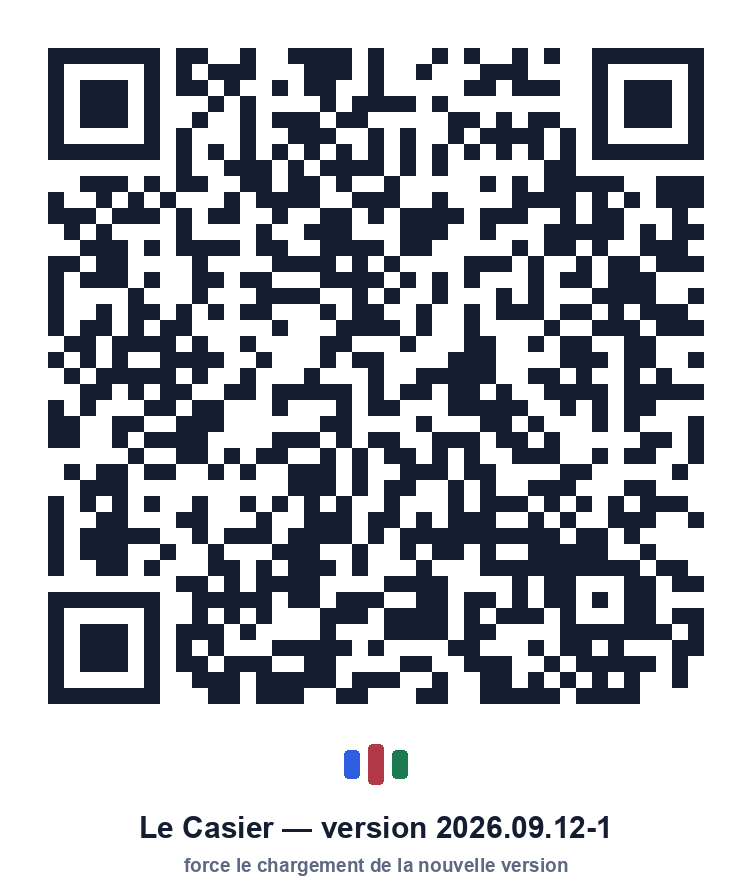
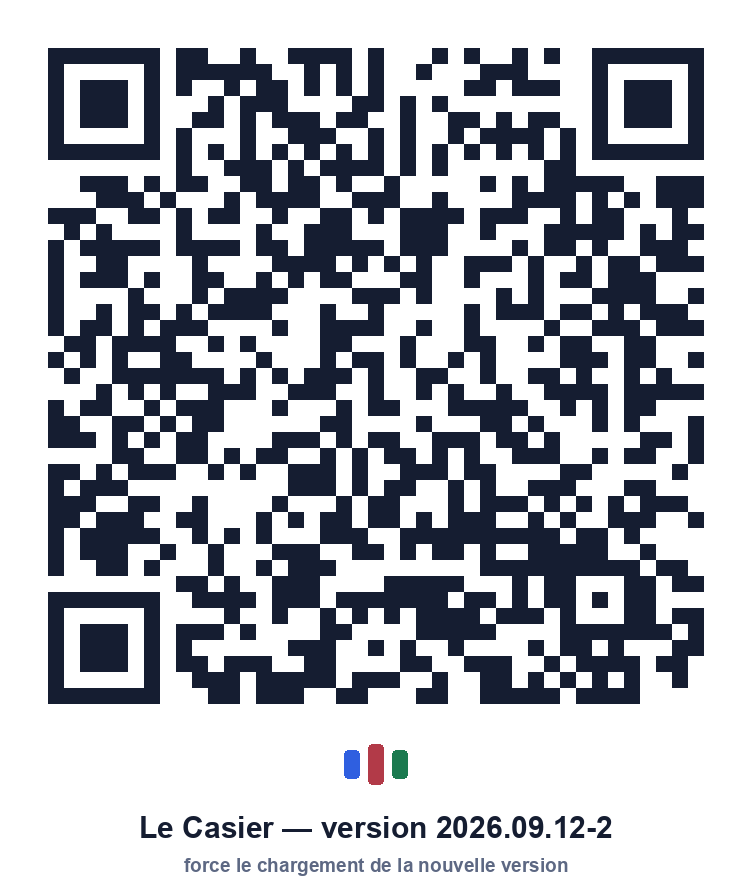
Faire dire la même chose aux deux compteurs d'annonces
En haut de la page « 3 annonces », en bas « 7 annonces » : deux nombres
portant le même mot, et rien pour dire lequel croire.

Ils ne comptaient pas la même chose. Celui du haut ne retenait que les
annonces encore disponibles, filtres du moment appliqués. Celui du bas
comptait toutes les lignes du catalogue, y compris les échanges déjà
conclus et les annonces masquées par un signalement — des objets que
personne ne peut plus prendre. Le second annonçait donc au lycée une
réserve qui n'existait pas.

Les deux comptent désormais les annonces disponibles. Quand un filtre
est posé, celui du haut le dit — « 2 annonces affichées » — au lieu de
laisser croire que le casier a rétréci.

Au passage, deux défauts du même voisinage. Taper dans le champ de
recherche redessinait la grille à partir des seules annonces : les
demandes « je cherche » disparaissaient à la première lettre et ne
revenaient qu'en changeant d'onglet. Et cette grille-là recomptait les
objets sans argent à sa façon, en oubliant les trocs. Le libellé et la
grille sont maintenant écrits à un seul endroit, donc identiques
qu'on filtre ou non.

diff --git a/index.html b/index.html
@@ -889,7 +889,7 @@ label .opt{font-weight:400;color:var(--faint)}
   // secrets de la fonction serveur.
   var CLE_PUSH = "BPct_TKB40uTbAGg0UzNCCMcbk60LYQaGHmH0XqXWcTR_Lo7qj2U6wm37kCgpWWynKLWarLx3lWfhRR40eizzkM";
 
-  var VERSION_APP = "2026.09.12-1";   // affiché en bas : permet de savoir ce que tourne un téléphone
+  var VERSION_APP = "2026.09.12-2";   // affiché en bas : permet de savoir ce que tourne un téléphone
   var PLAFOND_PRIX  = 40;   // € — fixé par la Maison des lycéens, pas par les élèves
   var PLANCHER_PRIX = 0.1;  // € — en dessous, mieux vaut donner ou troquer
   var PAS_PRIX      = 0.05; // € — les prix vont de cinq centimes en cinq centimes
@@ -2454,6 +2454,38 @@ label .opt{font-weight:400;color:var(--faint)}
     );
   }
 
+  // Deux nombres portant le même mot se contredisent à l'écran : celui
+  // du haut ne comptait que les annonces retenues par les filtres, celui
+  // du bas comptait toutes les lignes du catalogue, y compris les
+  // échanges terminés et les annonces masquées par un signalement.
+  // Les deux comptent désormais la même chose — les annonces encore
+  // disponibles — et celui du haut dit quand il ne montre qu'une part.
+  function filtreActif() {
+    return !!(state.filtre.q.trim() || state.filtre.mode ||
+              state.filtre.cat || state.filtre.niveau);
+  }
+
+  function etiquetteResultats(res, dem) {
+    var gratuits = res.filter(function (o) {
+      return o.mode === "don" || o.mode === "troc";
+    }).length;
+    return "<b>" + res.length + "</b> annonce" + (res.length > 1 ? "s" : "") +
+      (filtreActif() ? (res.length > 1 ? " affichées" : " affichée") : "") +
+      (gratuits ? " · dont <b>" + gratuits + "</b> sans argent" : "") +
+      (dem.length ? " · <b>" + dem.length + "</b> recherché" + (dem.length > 1 ? "s" : "") : "");
+  }
+
+  // Les demandes sont des cartes du catalogue au même titre que les
+  // annonces : les oublier ici les faisait disparaître dès la première
+  // frappe dans le champ de recherche.
+  function grilleCatalogue(res, dem) {
+    var cartes = res.map(function (o) { return carte(o); })
+                    .concat(dem.map(function (r) { return carteDemande(r); }));
+    return cartes.length
+      ? '<div class="grid">' + cartes.join("") + "</div>"
+      : messageVide();
+  }
+
   function filtrer() {
     var q = state.filtre.q.toLowerCase().trim();
     return state.objets.filter(function (o) {
@@ -2513,12 +2545,7 @@ label .opt{font-weight:400;color:var(--faint)}
 
     var res = filtrer();
     var dem = filtrerDemandes();
-    var gratuits = res.filter(function (o) { return o.mode === "don" || o.mode === "troc"; }).length;
-    var cartes = res.map(function (o) { return carte(o); })
-                    .concat(dem.map(function (r) { return carteDemande(r); }));
-    var corps = cartes.length
-      ? '<div class="grid">' + cartes.join("") + "</div>"
-      : messageVide();
+    var corps = grilleCatalogue(res, dem);
 
     return (
       '<div class="filters">' +
@@ -2530,10 +2557,7 @@ label .opt{font-weight:400;color:var(--faint)}
         '<div class="chiprail">' + chips + "</div>" +
       "</div>" +
       '<div class="count">' +
-        '<span class="lbl"><b>' + res.length + "</b> annonce" + (res.length > 1 ? "s" : "") +
-        (gratuits ? " · dont <b>" + gratuits + "</b> sans argent" : "") +
-        (dem.length ? " · <b>" + dem.length + "</b> recherché" + (dem.length > 1 ? "s" : "") : "") +
-        "</span>" +
+        '<span class="lbl">' + etiquetteResultats(res, dem) + "</span>" +
         '<span class="lbl">Remise au CDI</span>' +
       "</div>" + corps
     );
@@ -3276,18 +3300,12 @@ label .opt{font-weight:400;color:var(--faint)}
   function rerenderCatalogue() {
     if (state.onglet !== "catalogue") return;
     var res = filtrer();
-    var gratuits = res.filter(function (o) { return o.mode === "don"; }).length;
+    var dem = filtrerDemandes();
     var v = document.getElementById("view");
     var cible = v.querySelector(".grid") || v.querySelector(".empty");
     var lbl = v.querySelector(".count .lbl");
-    if (lbl) {
-      lbl.innerHTML = "<b>" + res.length + "</b> annonce" + (res.length > 1 ? "s" : "") +
-        (gratuits ? " · dont <b>" + gratuits + "</b> gratuite" + (gratuits > 1 ? "s" : "") : "");
-    }
-    var neuf = res.length
-      ? '<div class="grid">' + res.map(function (o) { return carte(o); }).join("") + "</div>"
-      : messageVide();
-    if (cible) cible.outerHTML = neuf;
+    if (lbl) lbl.innerHTML = etiquetteResultats(res, dem);
+    if (cible) cible.outerHTML = grilleCatalogue(res, dem);
   }
 
   function renderStatus() {
@@ -3296,8 +3314,10 @@ label .opt{font-weight:400;color:var(--faint)}
       el.innerHTML = "<b>Hors ligne</b> · " + esc(state.horsLigne) +
         " — les annonces affichées sont des exemples.";
     } else if (state.pret) {
-      el.innerHTML = "<b>" + state.objets.length + "</b> annonces · <b>" +
-        state.recherches.length + "</b> demandes · mis à jour en direct pour tout le lycée." +
+      var dispo = state.objets.filter(estActif).length;
+      el.innerHTML = "<b>" + dispo + "</b> annonce" + (dispo > 1 ? "s" : "") +
+        " en ligne dans tout le lycée · <b>" + state.recherches.length + "</b> demande" +
+        (state.recherches.length > 1 ? "s" : "") + " · mis à jour en direct." +
         '<br><span style="opacity:.6">version ' + VERSION_APP + "</span>";
     } else {
       el.textContent = "Connexion au catalogue…";

diff --git a/sw.js b/sw.js
@@ -5,7 +5,7 @@
 // première réponse reçue, définitivement. Seuls les fichiers de
 // l'application — qui ne changent qu'à une publication — sont cachés.
 
-const VERSION = "casier-20260912-1";
+const VERSION = "casier-20260912-2";
 const COQUILLE = [
   "./",
   "./index.html",
